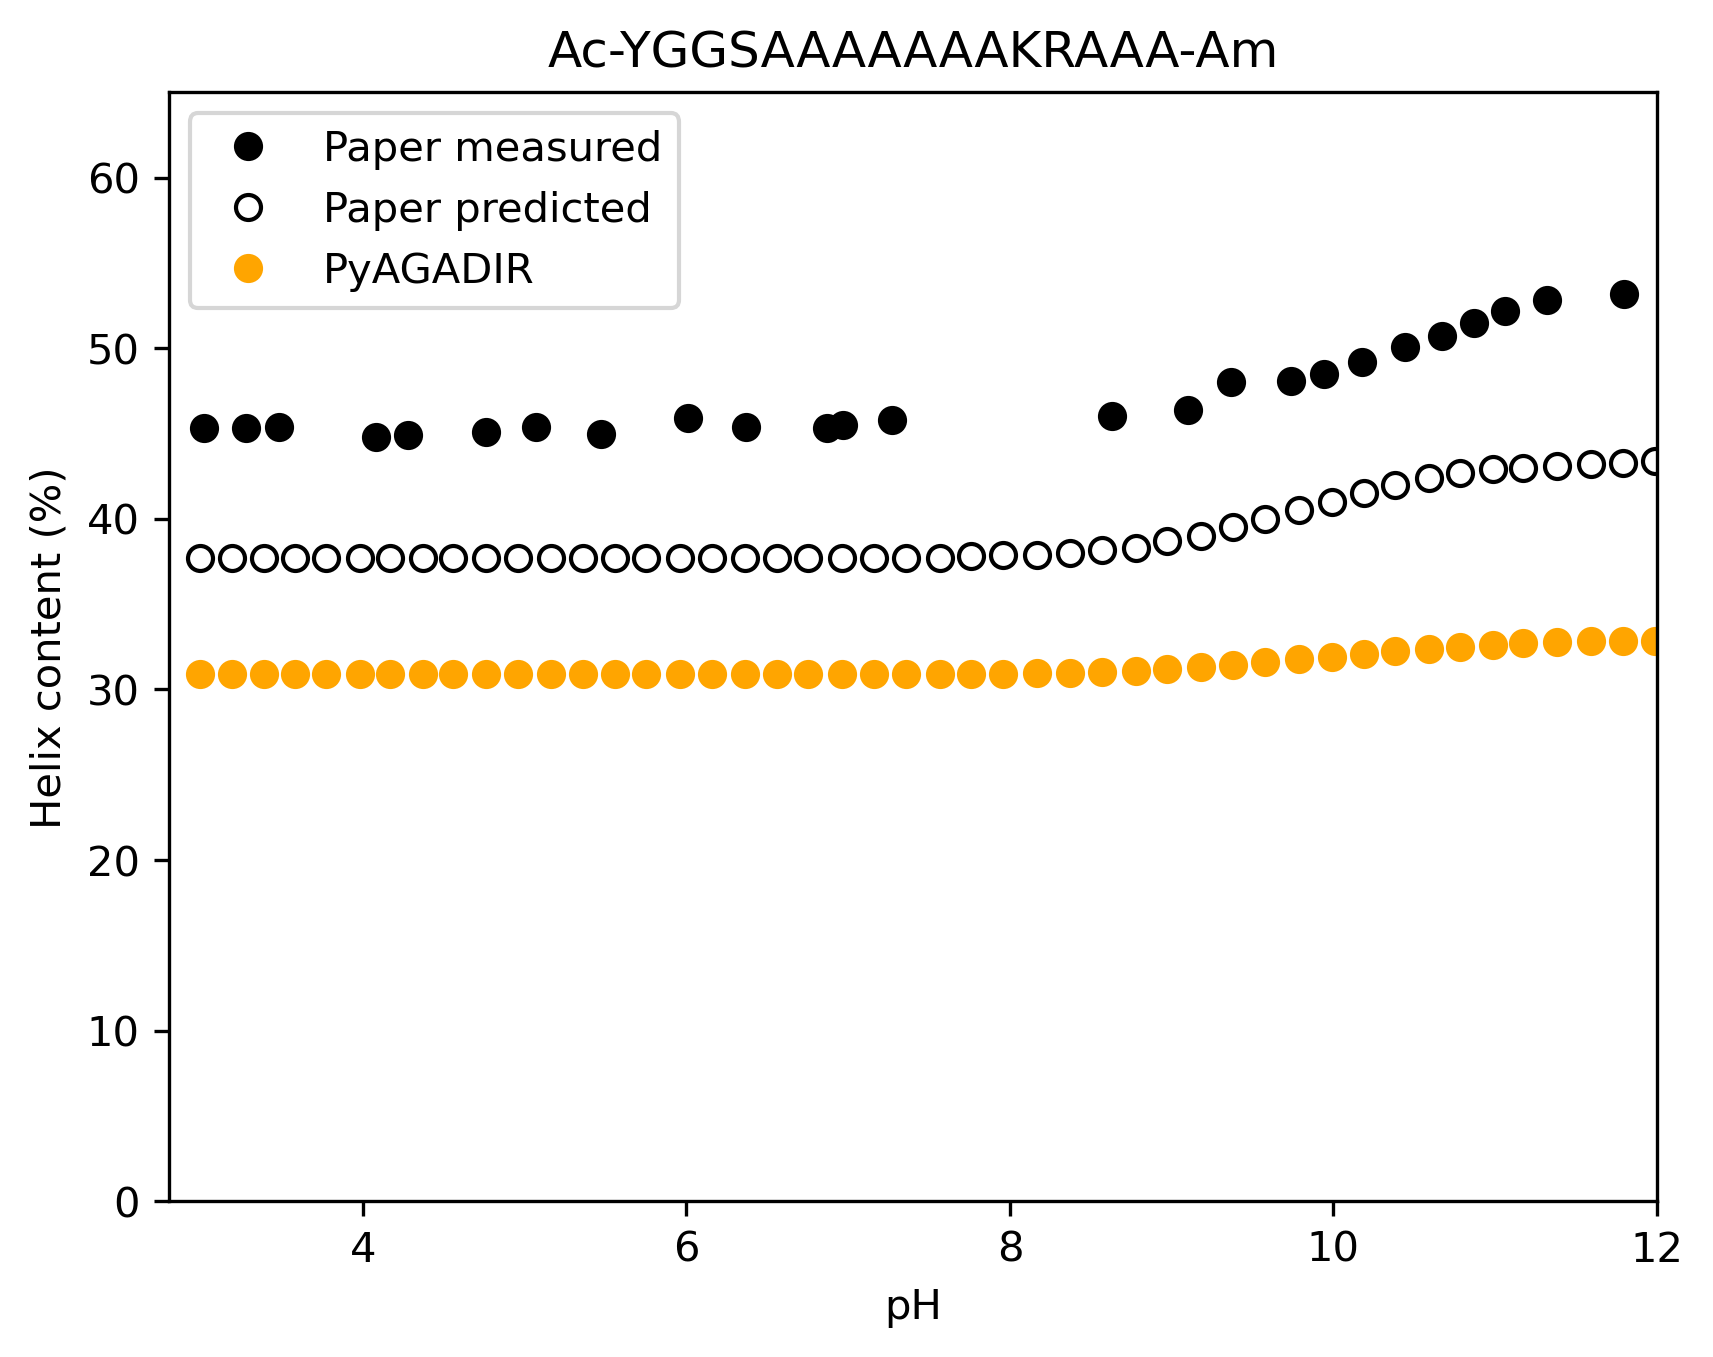
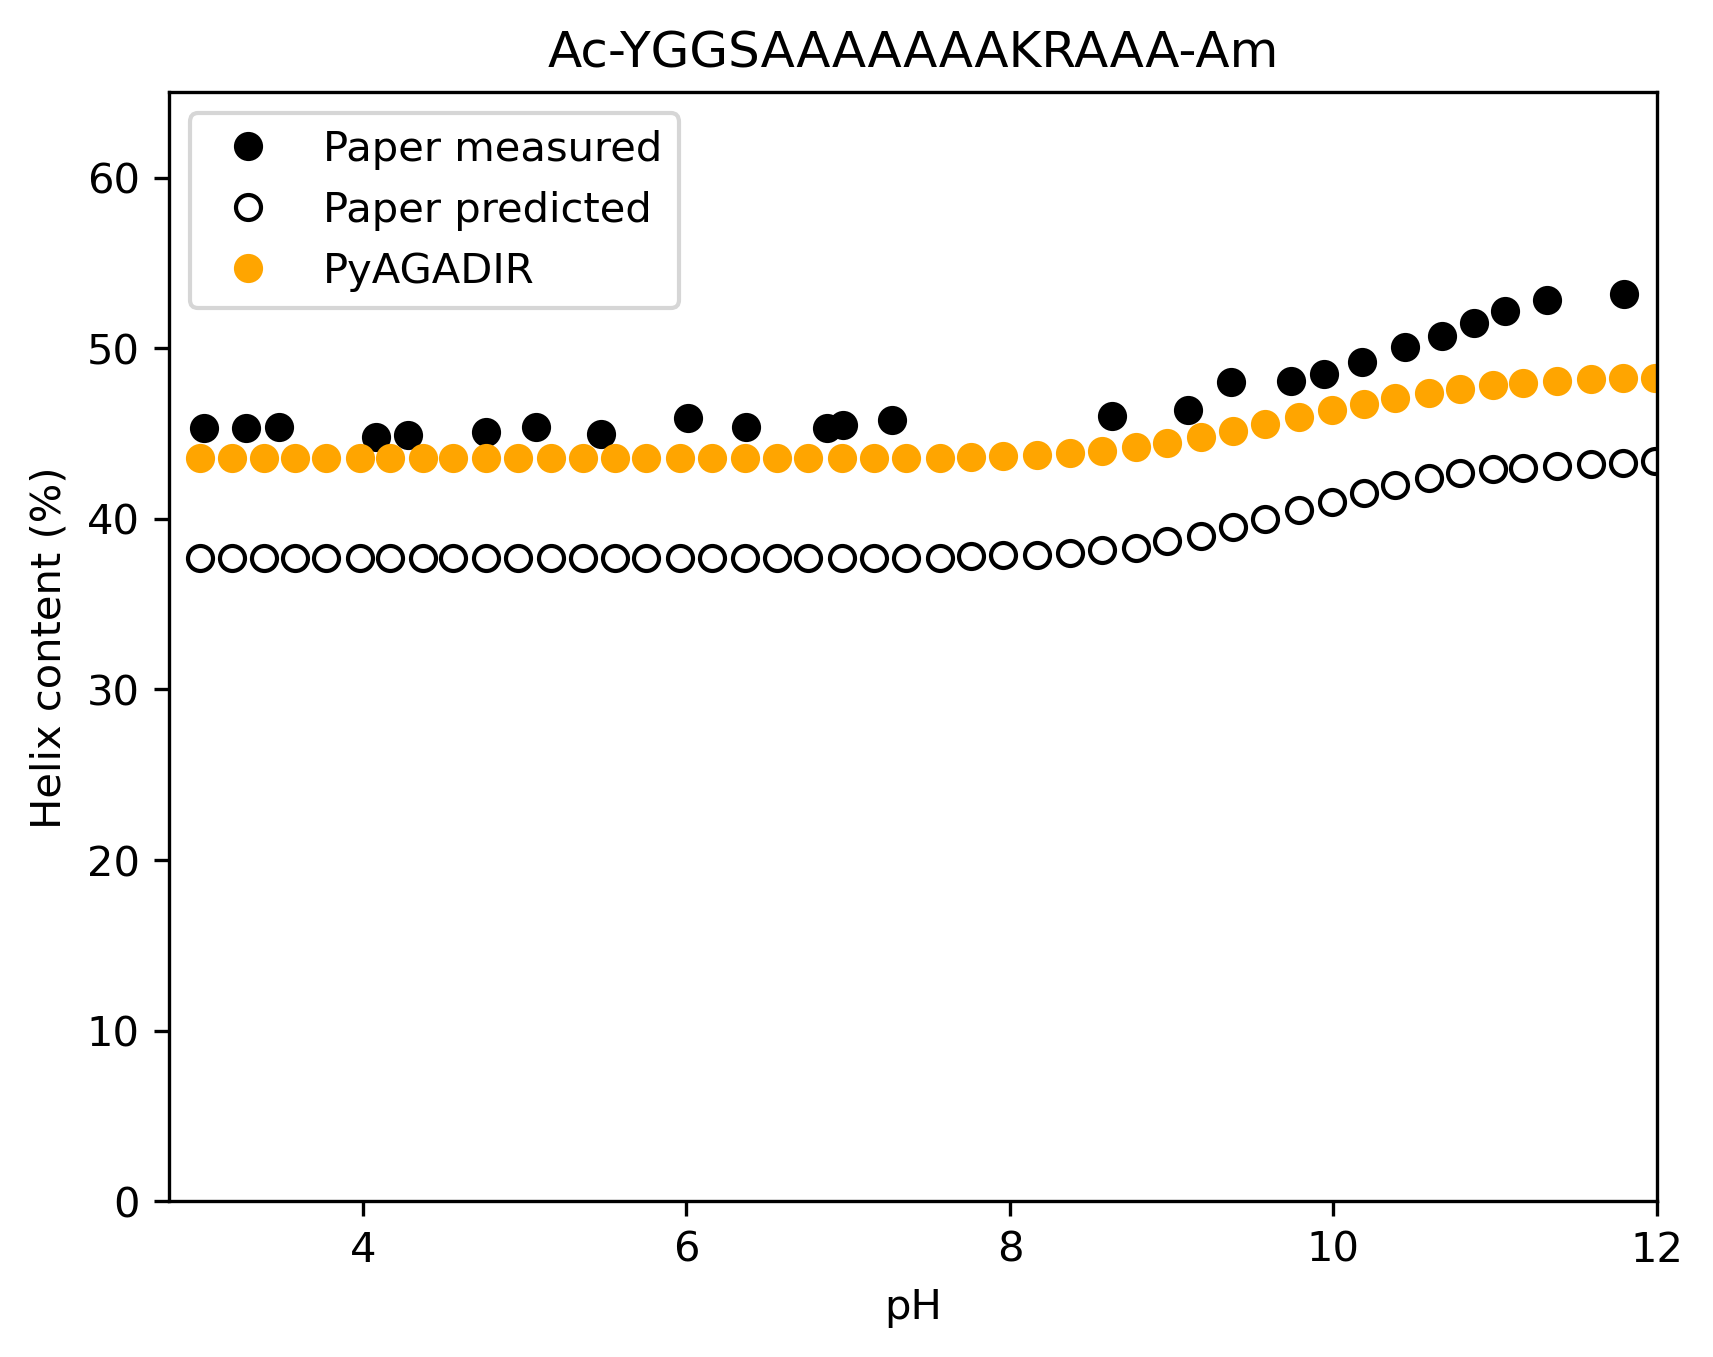
improve explanation of the validation

Changed region(s): [[0.0928, 0.4643, 0.9901, 0.5262], [0.0928, 0.2476, 0.9591, 0.3714]]

diff --git a/README.md b/README.md
@@ -112,16 +112,14 @@ conda activate agadir-dev
 
 2. Run the validation script:
 ```bash
-python -m pyagadir.validation
+python -m ./pyagadir/validation.py
 ```
 
-This will generate comparison plots in the `pyagadir/figures` directory. Below is a validation plot for Figure 3b from the original paper, showing the pH dependence of helix content for the peptide Ac-YGGSAAAAAAAKRAAA-Am:
+This will generate comparison plots in the `pyagadir/figures` directory. 
+
+Below is a validation plot for Figure 3b with reference data extractedfrom the original paper, showing the pH dependence of helix content:
 
 ![Figure 3b Validation](pyagadir/figures/figure_3b.png)
-
-- Black circles: Experimental measurements from the paper
-- White circles: Original AGADIR predictions from the paper
-- Orange circles: Current pyAGADIR predictions
 
 
 ## Questions / To Do
